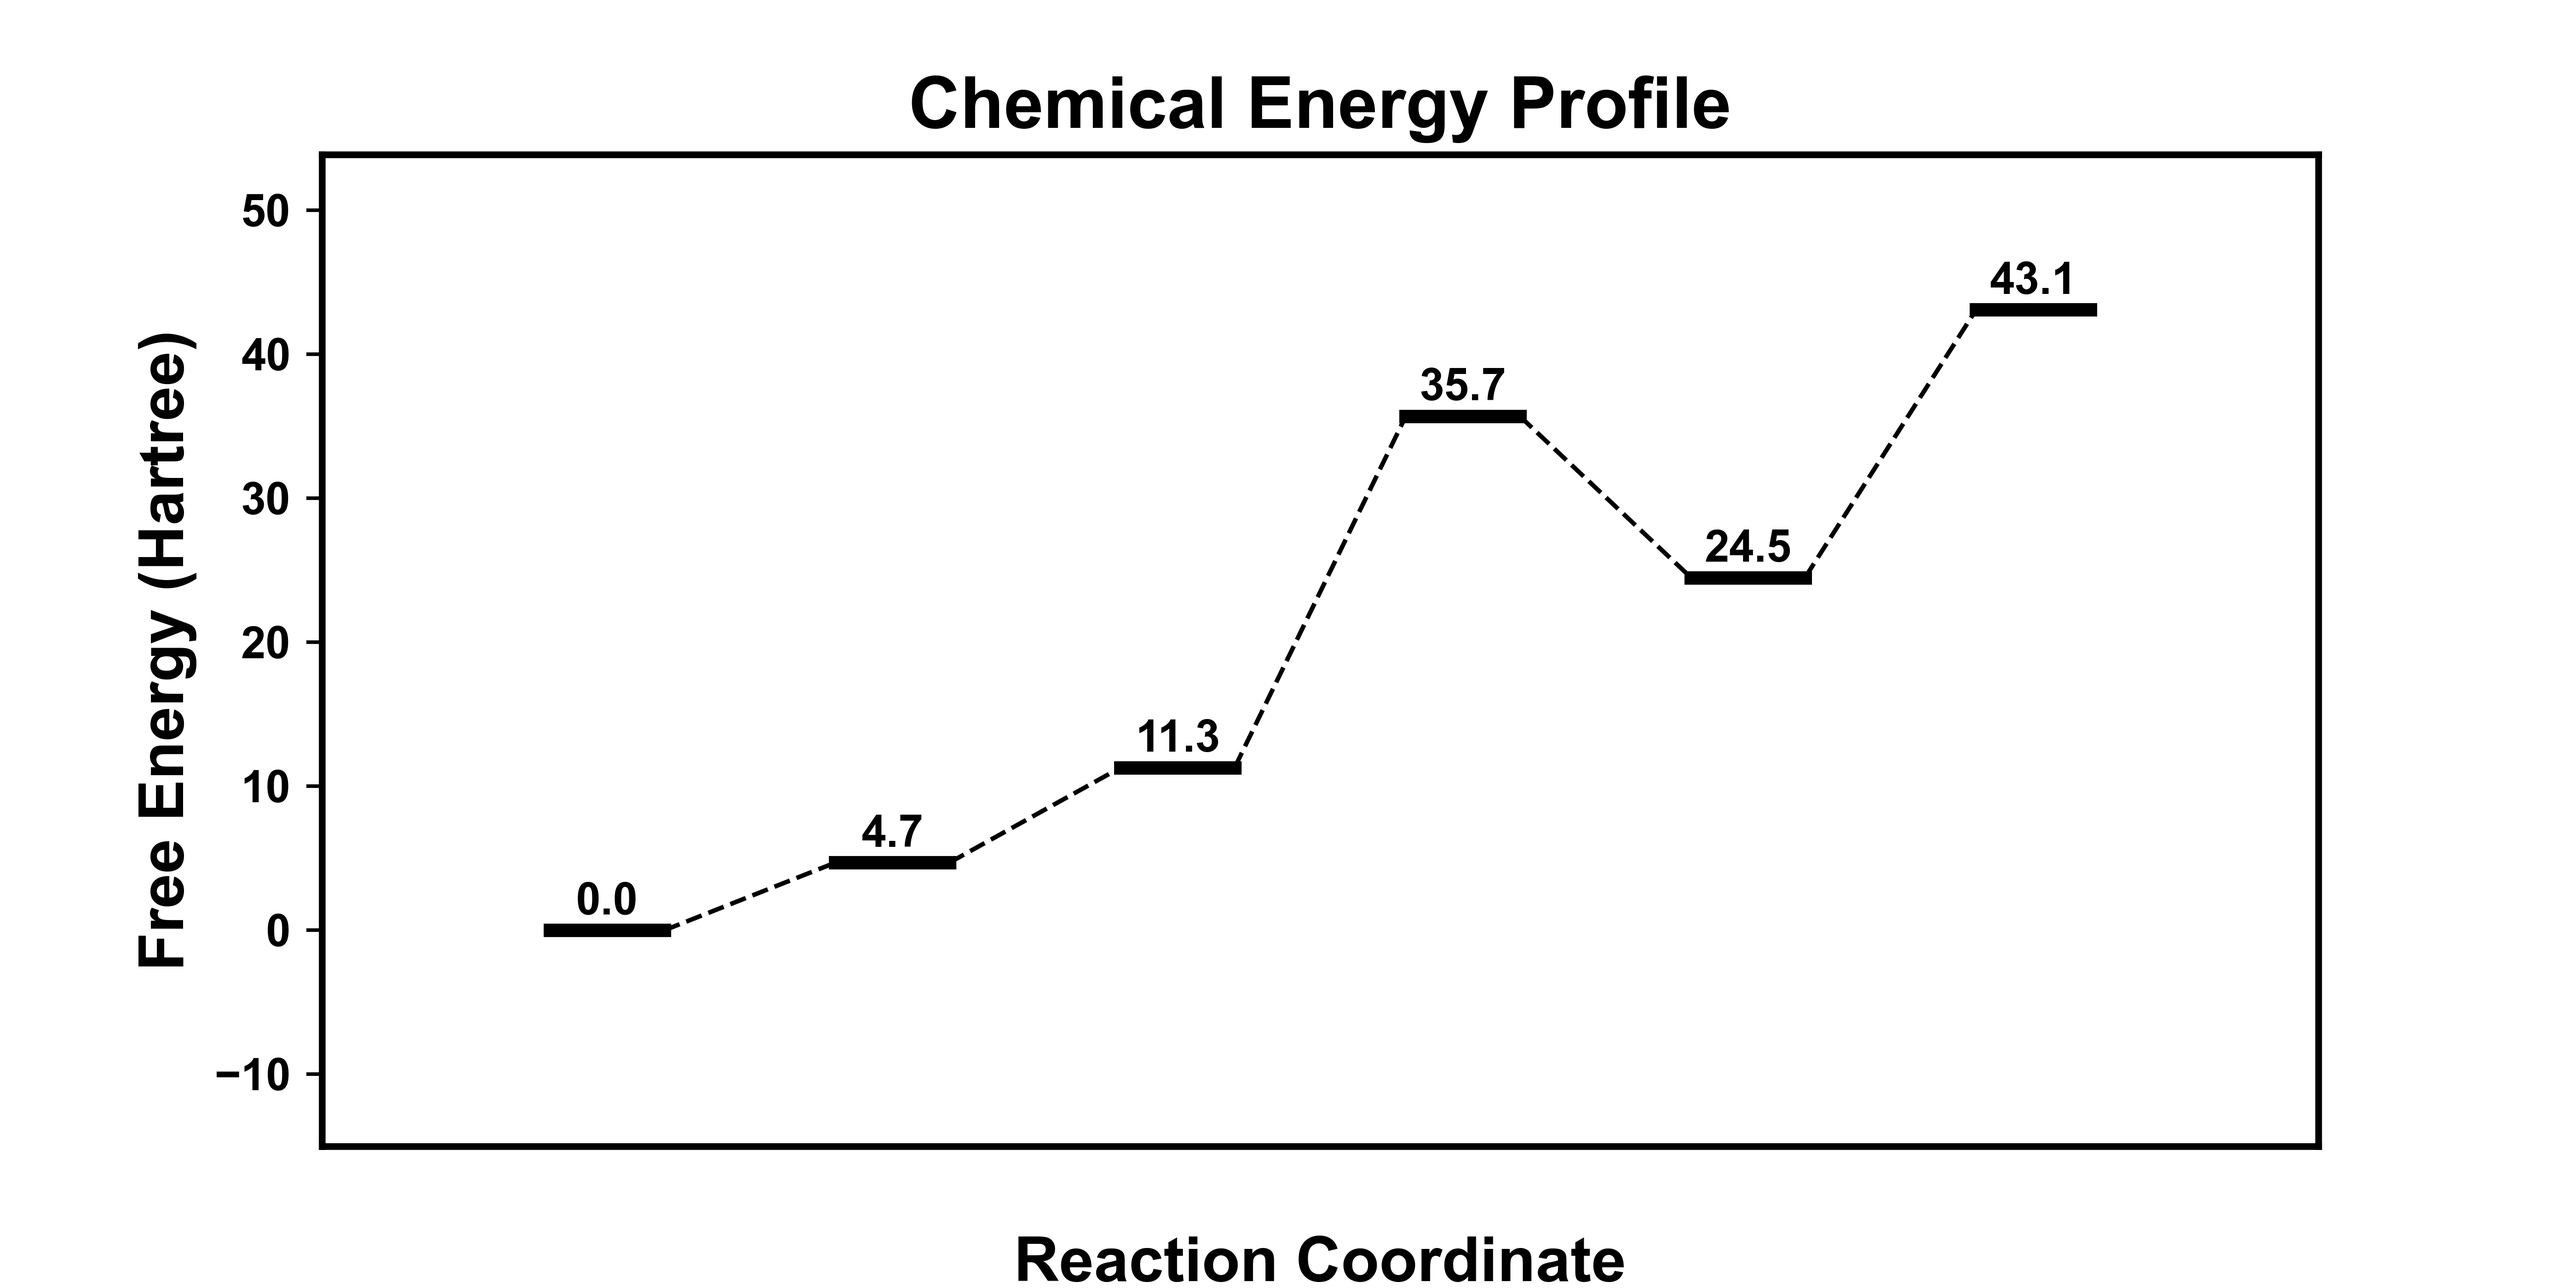
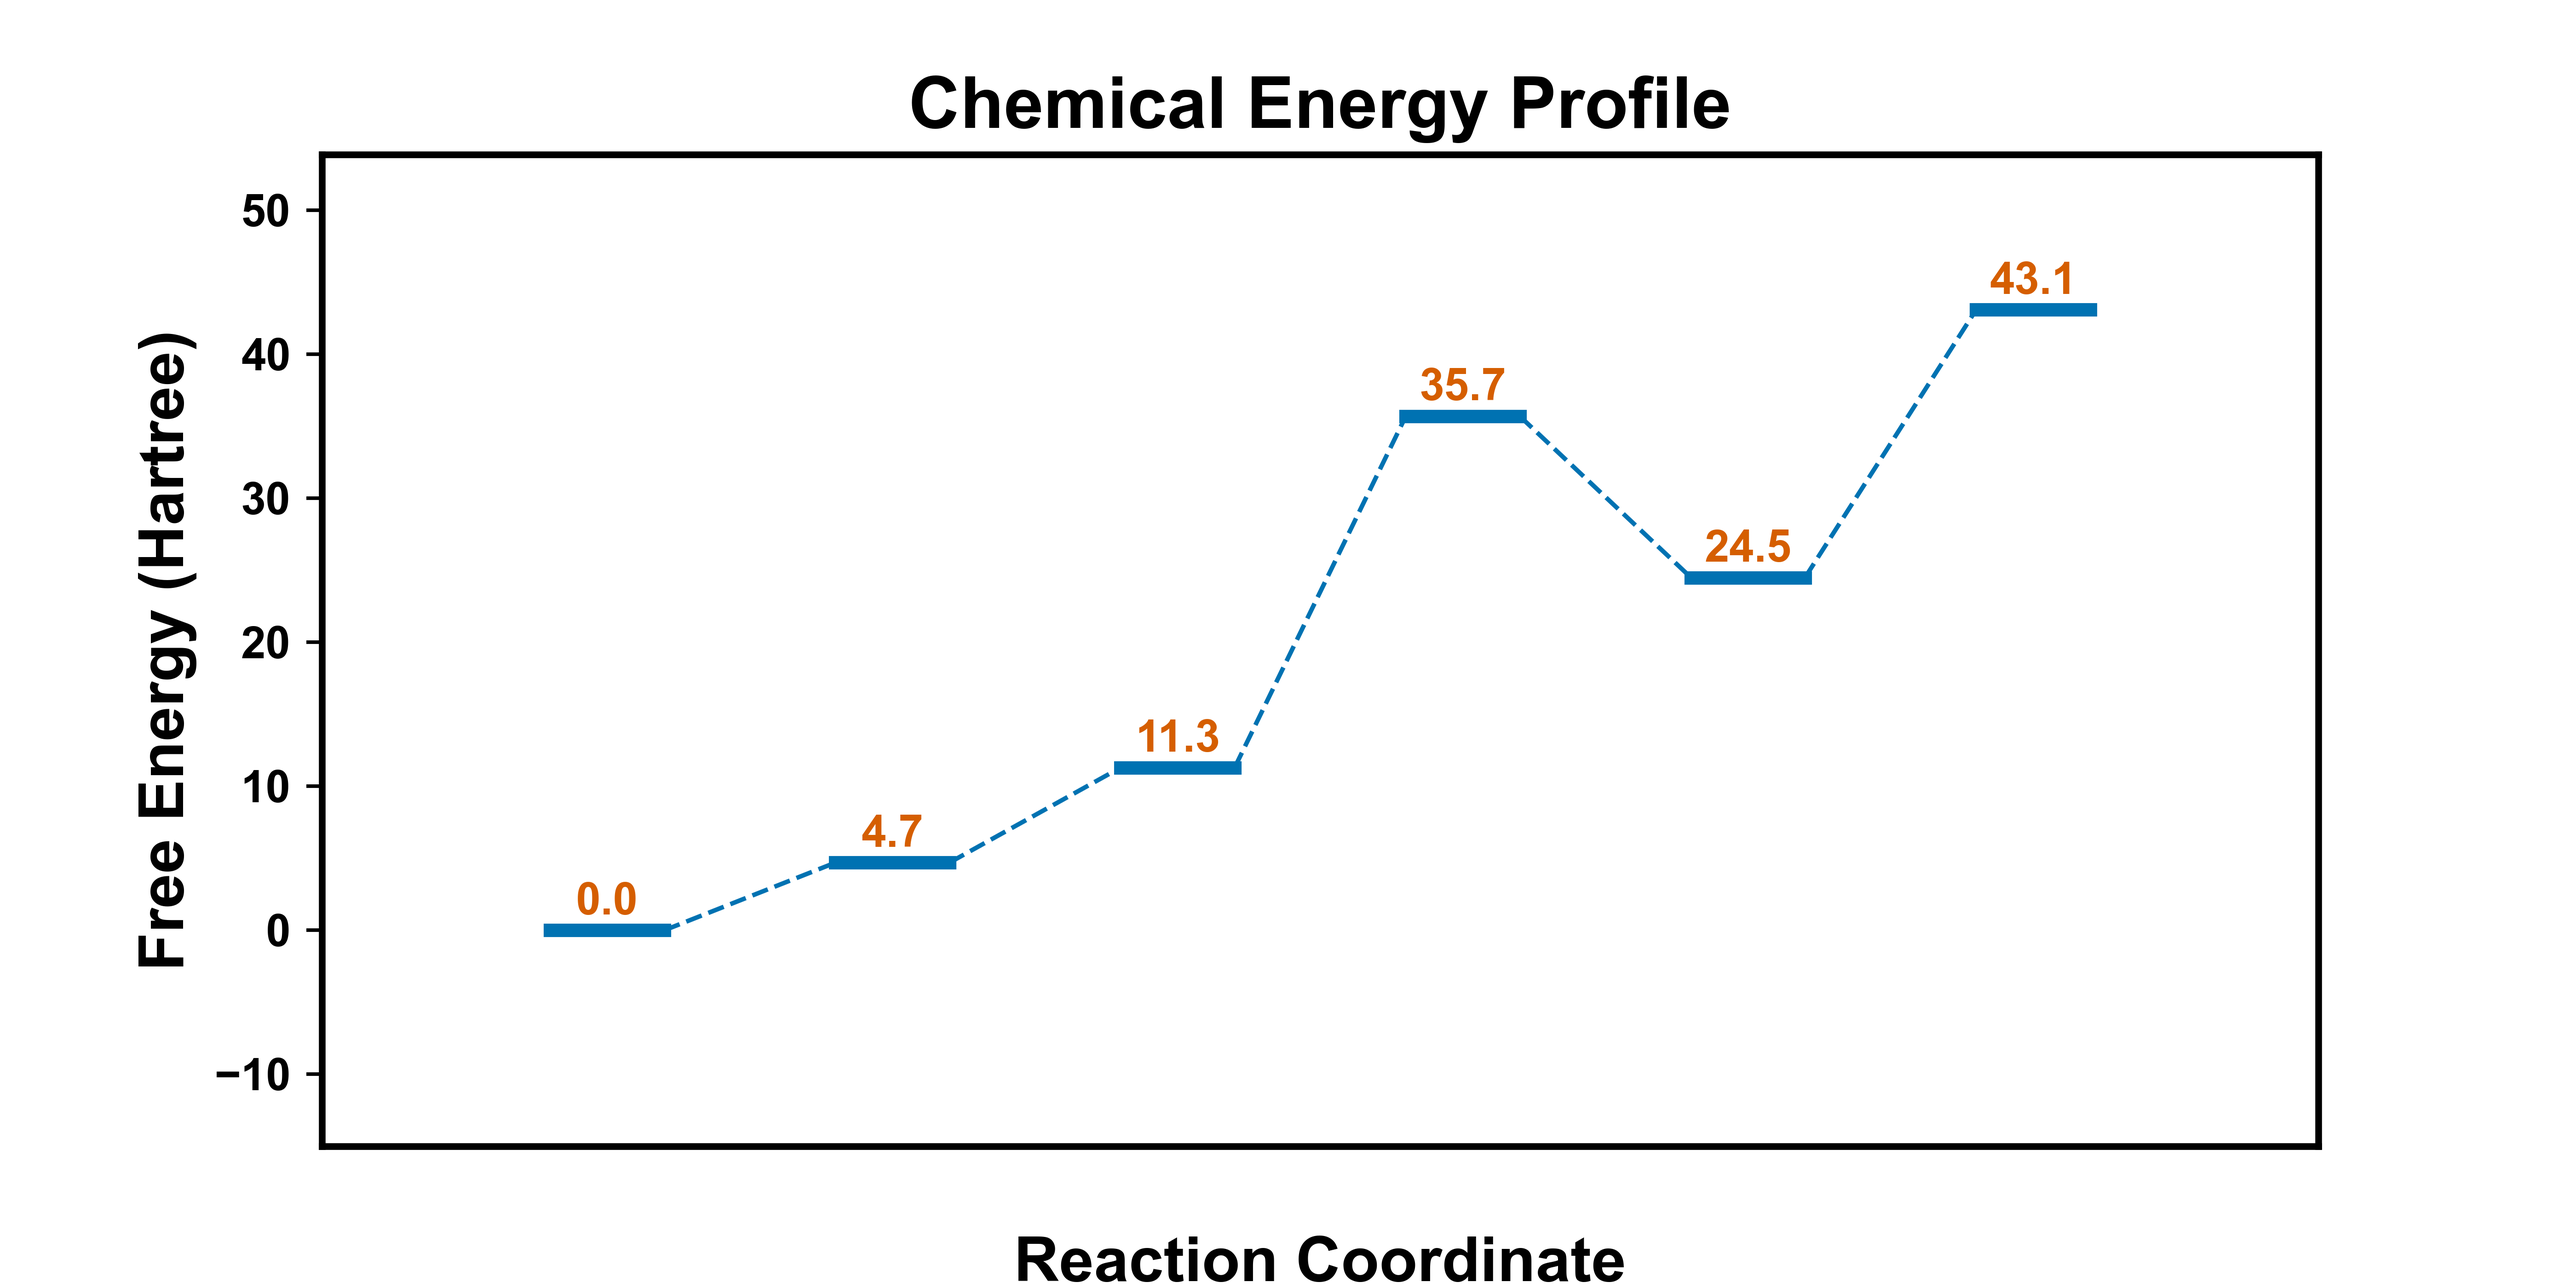
update color theme

diff --git a/kimariDraw/Plot/kd_plot.py b/kimariDraw/Plot/kd_plot.py
@@ -35,7 +35,13 @@ def kd_draw(data: KDData, save_name='figure'):
     ax.set_ylim(y_min, y_max)
 
     # 更改颜色主题
-
+    colors = []
+    if data.color_theme == 'normal':
+        colors = ['black', 'black']
+    elif data.color_theme == 'nature':
+        colors = ['#0072B2', '#D55E00']
+    elif data.color_theme == 'science':
+        colors = ["#1b9e77", "#d95f02"]
 
     # 绘制平台
     # 绘制数据点
@@ -44,14 +50,17 @@ def kd_draw(data: KDData, save_name='figure'):
 
     # 在每个数据点上绘制长度为 0.4 的水平线，并在水平线上显示数字
     for i, (x, y) in enumerate(zip(num_x, num_y)):
-        ax.plot([x - 0.2, x + 0.2], [y, y], color='black', linewidth=3)
+        ax.plot([x - 0.2, x + 0.2], [y, y], color=colors[0], linewidth=3)
         if abs(y) > 100:
-            ax.text(x, y + 2, f"{y:.1f}", ha='center', va='bottom', fontweight='bold', fontsize=10)
+            ax.text(x, y + 2, f"{y:.1f}", ha='center', va='bottom', fontweight='bold', fontsize=10, color=colors[1])
         else:
-            ax.text(x, y + 0.5, f"{y:.1f}", ha='center', va='bottom', fontweight='bold', fontsize=10)
+            ax.text(x, y + 0.5, f"{y:.1f}", ha='center', va='bottom', fontweight='bold', fontsize=10, color=colors[1])
+
+    # 修改折线图样式，
+
 
     for i in range(len(num_x) - 1):
-        ax.plot([num_x[i]+0.2, num_x[i+1]-0.2], [num_y[i], num_y[i+1]],  color='black', linewidth=1, linestyle='--')
+        ax.plot([num_x[i]+0.2, num_x[i+1]-0.2], [num_y[i], num_y[i+1]],  color=colors[0], linewidth=1, linestyle='--')
 
     # 设置 x 轴和 y 轴标签
     y_label = "Free Energy" + f" ({data.unit})"
